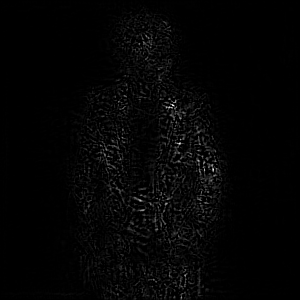
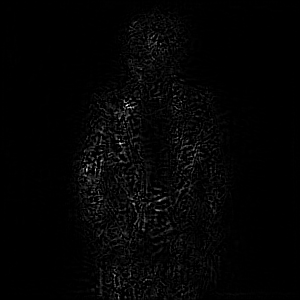
saliency results

diff --git a/saliency_map.py b/saliency_map.py
@@ -88,7 +88,7 @@ for category in args.classes:
     map = 255*map/map.max()
 
     vis = np.swapaxes(input.data.cpu().numpy()[0]+map, 0, 2)
-    cv2.imwrite(args.save_folder + args.input.split('.')[0] + '_saliency_' + str(category) + '.png', np.rot90(map, k=3))
+    cv2.imwrite(args.save_folder + args.input.split('.')[0] + '_saliency_' + str(category) + '.png', np.fliplr(np.rot90(map, k=3)))
     cv2.imwrite(args.save_folder + args.input.split('.')[0] + '_both_' + str(category) + '.png', vis)
 
     input.grad.data.zero_()
